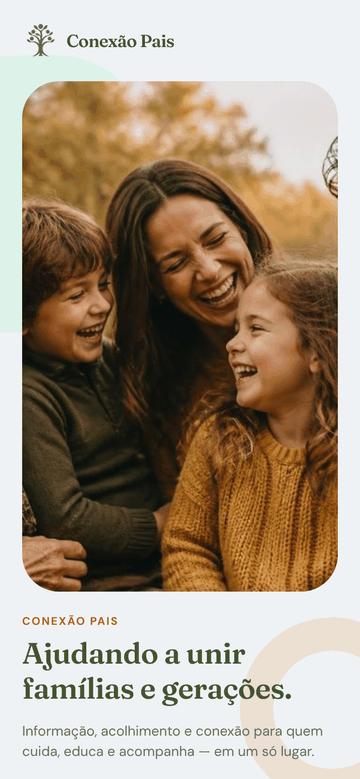
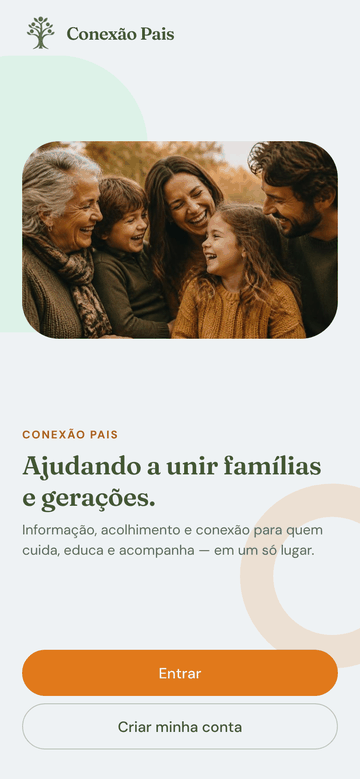
fix: botões da tela de boas-vindas visíveis sem rolar
- foto da família em moldura com proporção fixa (aspectRatio no contêiner,
  que funciona igual no celular e no navegador)
- mesmo ajuste na imagem da tela Sobre
- remove a fonte Fraunces 400, que não era usada

Claude-Session: https://claude.ai/code/session_017B9CDbqWwX1VxMqHALEngq

diff --git a/mobile/src/screens/auth/WelcomeScreen.js b/mobile/src/screens/auth/WelcomeScreen.js
@@ -23,7 +23,7 @@ export default function WelcomeScreen({ navigation }) {
 
       <View>
         <Text style={type.eyebrow}>Conexão Pais</Text>
-        <Text style={[type.hero, styles.title]}>Ajudando a unir famílias e gerações.</Text>
+        <Text style={[type.h1, styles.title]}>Ajudando a unir famílias e gerações.</Text>
         <Text style={[type.muted, styles.description]}>
           Informação, acolhimento e conexão para quem cuida, educa e acompanha — em um só lugar.
         </Text>
@@ -41,9 +41,9 @@ const styles = StyleSheet.create({
   content: {
     overflow: 'hidden',
     justifyContent: 'space-between',
-    gap: spacing.lg,
+    gap: spacing.md,
     paddingHorizontal: spacing.lg,
-    paddingTop: spacing.lg,
+    paddingTop: spacing.md,
     backgroundColor: colors.surface,
   },
   blobMint: {
@@ -66,18 +66,20 @@ const styles = StyleSheet.create({
   },
   photoFrame: {
     overflow: 'hidden',
+    width: '100%',
+    aspectRatio: 1.6,
     borderRadius: 40,
     backgroundColor: colors.mint,
   },
   photo: {
     width: '100%',
-    aspectRatio: 720 / 553,
+    height: '100%',
   },
   title: {
     marginTop: spacing.sm,
   },
   description: {
-    marginTop: spacing.md,
+    marginTop: spacing.sm,
   },
   actions: {
     gap: spacing.sm,

diff --git a/mobile/src/screens/app/AboutScreen.js b/mobile/src/screens/app/AboutScreen.js
@@ -18,12 +18,14 @@ export default function AboutScreen() {
         organizado e confiável.
       </Text>
 
-      <Image
-        source={require('../../../assets/formas-conexao.jpg')}
-        style={styles.image}
-        resizeMode="cover"
-        accessibilityLabel="Formas orgânicas representando conexão entre pessoas"
-      />
+      <View style={styles.imageFrame}>
+        <Image
+          source={require('../../../assets/formas-conexao.jpg')}
+          style={styles.image}
+          resizeMode="cover"
+          accessibilityLabel="Formas orgânicas representando conexão entre pessoas"
+        />
+      </View>
 
       <View style={styles.values}>
         {valores.map((valor) => (
@@ -82,11 +84,16 @@ const styles = StyleSheet.create({
   text: {
     marginTop: spacing.sm,
   },
-  image: {
+  imageFrame: {
+    overflow: 'hidden',
     width: '100%',
     aspectRatio: 900 / 514,
     marginTop: spacing.lg,
     borderRadius: radius.xl,
+  },
+  image: {
+    width: '100%',
+    height: '100%',
   },
   values: {
     flexDirection: 'row',

diff --git a/mobile/App.js b/mobile/App.js
@@ -1,7 +1,6 @@
 import { DMSans_400Regular } from '@expo-google-fonts/dm-sans/400Regular';
 import { DMSans_500Medium } from '@expo-google-fonts/dm-sans/500Medium';
 import { DMSans_700Bold } from '@expo-google-fonts/dm-sans/700Bold';
-import { Fraunces_400Regular } from '@expo-google-fonts/fraunces/400Regular';
 import { Fraunces_600SemiBold } from '@expo-google-fonts/fraunces/600SemiBold';
 import { NavigationContainer } from '@react-navigation/native';
 import { useFonts } from 'expo-font';
@@ -21,7 +20,6 @@ SplashScreen.preventAutoHideAsync();
 
 export default function App() {
   const [fontsLoaded, fontError] = useFonts({
-    Fraunces_400Regular,
     Fraunces_600SemiBold,
     DMSans_400Regular,
     DMSans_500Medium,

diff --git a/mobile/src/theme/index.js b/mobile/src/theme/index.js
@@ -36,7 +36,6 @@ export const colors = {
 
 export const fonts = {
   display: 'Fraunces_600SemiBold',
-  displayRegular: 'Fraunces_400Regular',
   body: 'DMSans_400Regular',
   medium: 'DMSans_500Medium',
   bold: 'DMSans_700Bold',
